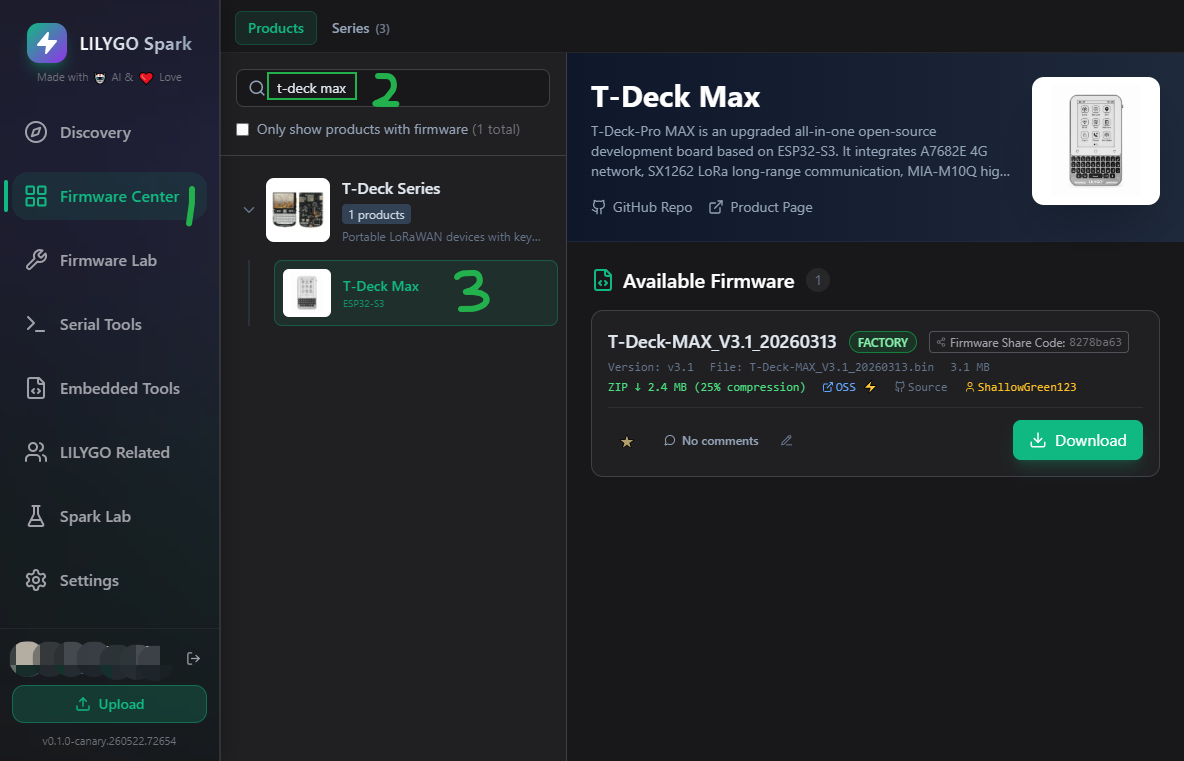
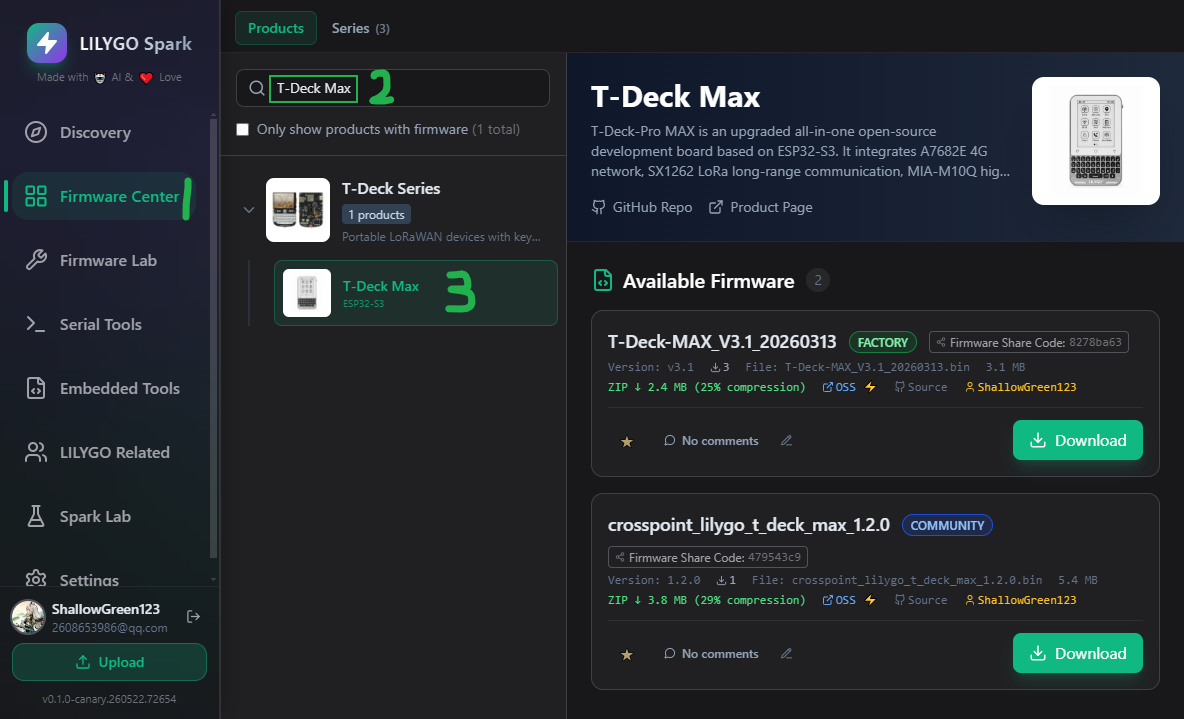
Update readme

diff --git a/readme.md b/readme.md
@@ -74,9 +74,14 @@ Before flashing firmware, connect the device to your computer, select the correc
 
 - Download the tool from [LILYGO Spark](https://lilygo.cc/en-us/pages/lilygo-spark?srsltid=AfmBOoorTB7ptFu2LQNLRnoI2SA0zBGJTN6JpI9J3hmHEkKhBQSmeu0Y).
 
-- Search for your device name and download the corresponding firmware.
+- Search for your device `T-Deck Max` and download the corresponding firmware.
 
 ![alt text](./docs/README_img/lilygo_spark.png)
+
+| Firmware                              | Note                | Github                                                                |
+| ------------------------------------- | ------------------- | --------------------------------------------------------------------- |
+| T-Deck-MAX_xxxxx.bin                  | Factory program<br> | -                                                                     |
+| crosspoint_lilygo_t_deck_max_xxxx.bin | Reader program      | [TDeckMax-Reader](https://github.com/ShallowGreen123/TDeckMax-Reader) |
 
 ## :two: Module 🎁
 

diff --git a/readme_cn.md b/readme_cn.md
@@ -71,9 +71,14 @@
 
 - 从 [LILYGO Spark](https://lilygo.cc/en-us/pages/lilygo-spark?srsltid=AfmBOoorTB7ptFu2LQNLRnoI2SA0zBGJTN6JpI9J3hmHEkKhBQSmeu0Y) 下载软件。
 
-- 搜索你的设备名称，并下载对应程序。
+- 搜索你的设备名称 `T-Deck Max`，并下载对应程序。
 
 ![alt text](./docs/README_img/lilygo_spark.png)
+
+| Firmware                              | Note                | Github                                                                |
+| ------------------------------------- | ------------------- | --------------------------------------------------------------------- |
+| T-Deck-MAX_xxxxx.bin                  | Factory program<br> | -                                                                     |
+| crosspoint_lilygo_t_deck_max_xxxx.bin | Reader program      | [TDeckMax-Reader](https://github.com/ShallowGreen123/TDeckMax-Reader) |
 
 ## :two: 模块说明 🎁
 
